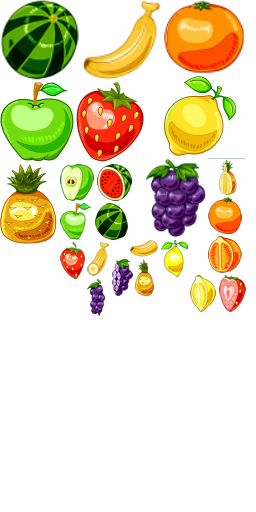
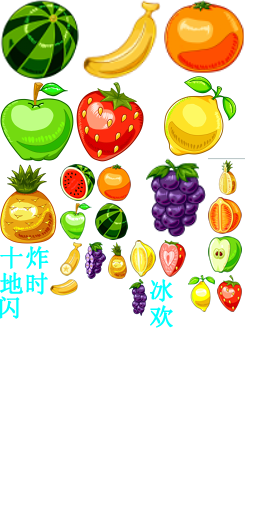
tool

Changed region(s): [[0.0, 0.375, 0.9688, 0.6562], [0.2188, 0.3125, 0.5312, 0.4062]]

diff --git a/IGG003/IGBoxToolUtil.m b/IGG003/IGBoxToolUtil.m
@@ -72,11 +72,17 @@
         }
     }
     // 闪电
-    if(tooltype== toolsNO &&(deleteNo >=8 || gameState.m_combo >= 2)){
+//    if(tooltype== toolsNO &&(deleteNo >=8 || gameState.m_combo >= 2)){
+//        if([self probability:60]){
+//            tooltype = tools06;
+//        }
+//    }
+    if(tooltype== toolsNO &&(deleteNo >=3)){
         if([self probability:60]){
             tooltype = tools06;
         }
     }
+
     // 冰冻
     if(tooltype== toolsNO &&deleteNo >=6){
         if([self probability:50]){
@@ -88,6 +94,7 @@
         // 将道具添加到随机新箱子上
         tempBox.isTool = YES;
         tempBox.tType = tooltype;
+        [tempBox setToolByType:tooltype];
         NSLog(@" 这个位置 : %d 是道具: %d  这个位置是个: %d",tempBox.tag,tempBox.tType,tempBox.bType);
     }
     return result;

diff --git a/IGG003/SpriteBox.m b/IGG003/SpriteBox.m
@@ -40,4 +40,12 @@
     int c = self.tag % kBoxTagR;
     return MxPointMake(r, c);
 }
+
+-(MxPoint)setToolByType:(GameToolType)type
+{
+    IGSprite *toolSprite = [IGSprite spriteWithSpriteFrameName:[NSString stringWithFormat:@"t%d.png",type]];
+    toolSprite.tag = kToolSpriteTag;
+    toolSprite.position = ccp(kBoxSize/2,kBoxSize/2);
+    [self addChild:toolSprite];
+}
 @end

diff --git a/IGG003/SpriteBox.h b/IGG003/SpriteBox.h
@@ -33,4 +33,5 @@
 +(id)spriteBoxWithRandomType;
 
 -(MxPoint)getMxPointByTag;
+-(MxPoint)setToolByType:(GameToolType)type;
 @end

diff --git a/IGG003/IGCommonDefine.h b/IGG003/IGCommonDefine.h
@@ -27,6 +27,8 @@
 
 #define kComboBoxLimit 6
 
+#define kToolSpriteTag 998
+
 @interface IGCommonDefine : NSObject
 
 @end
